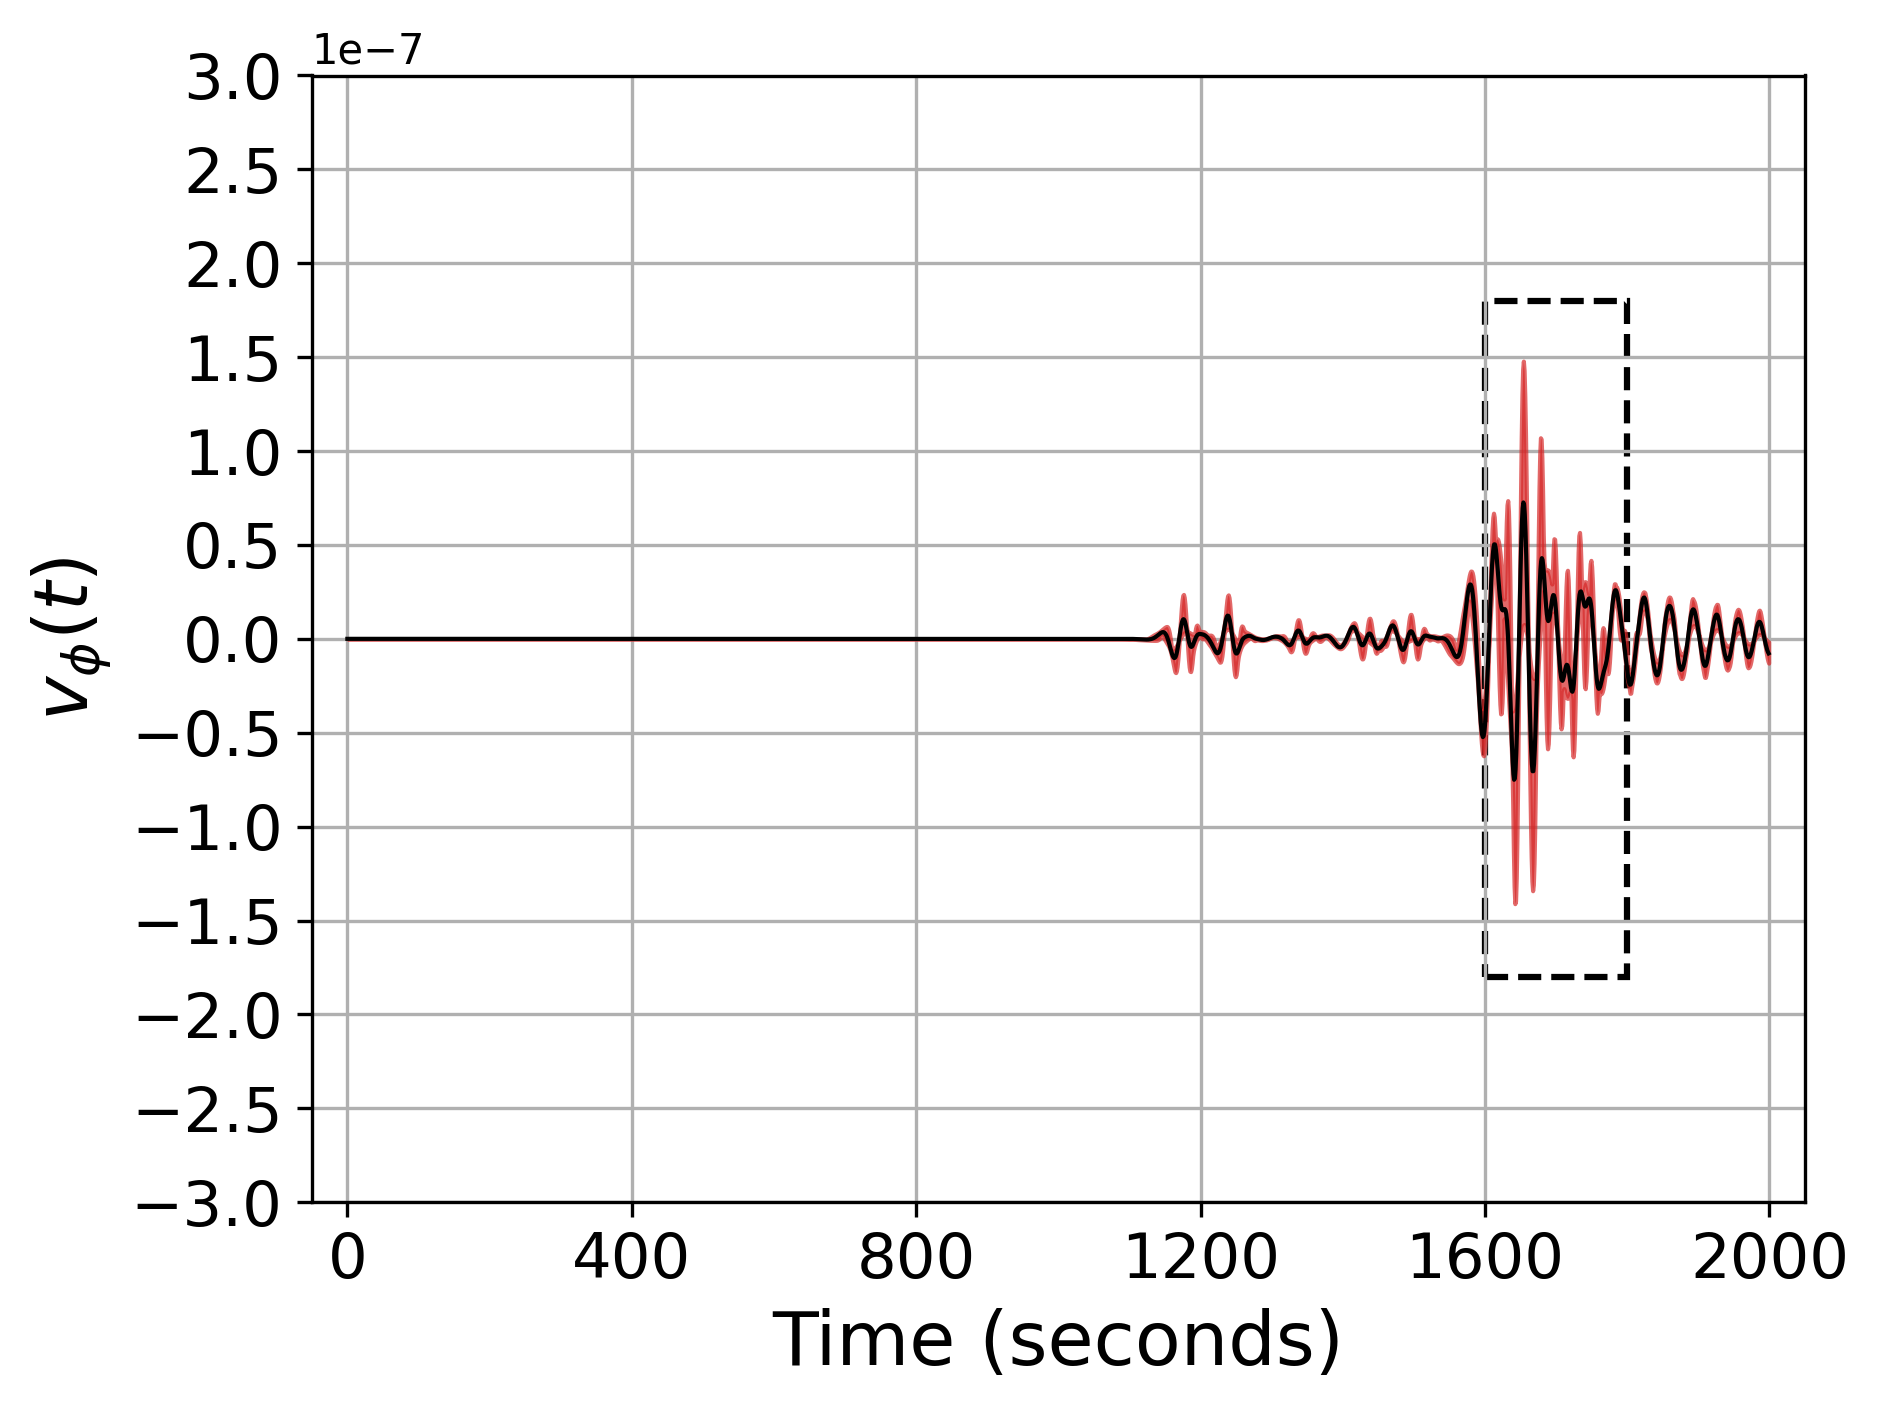
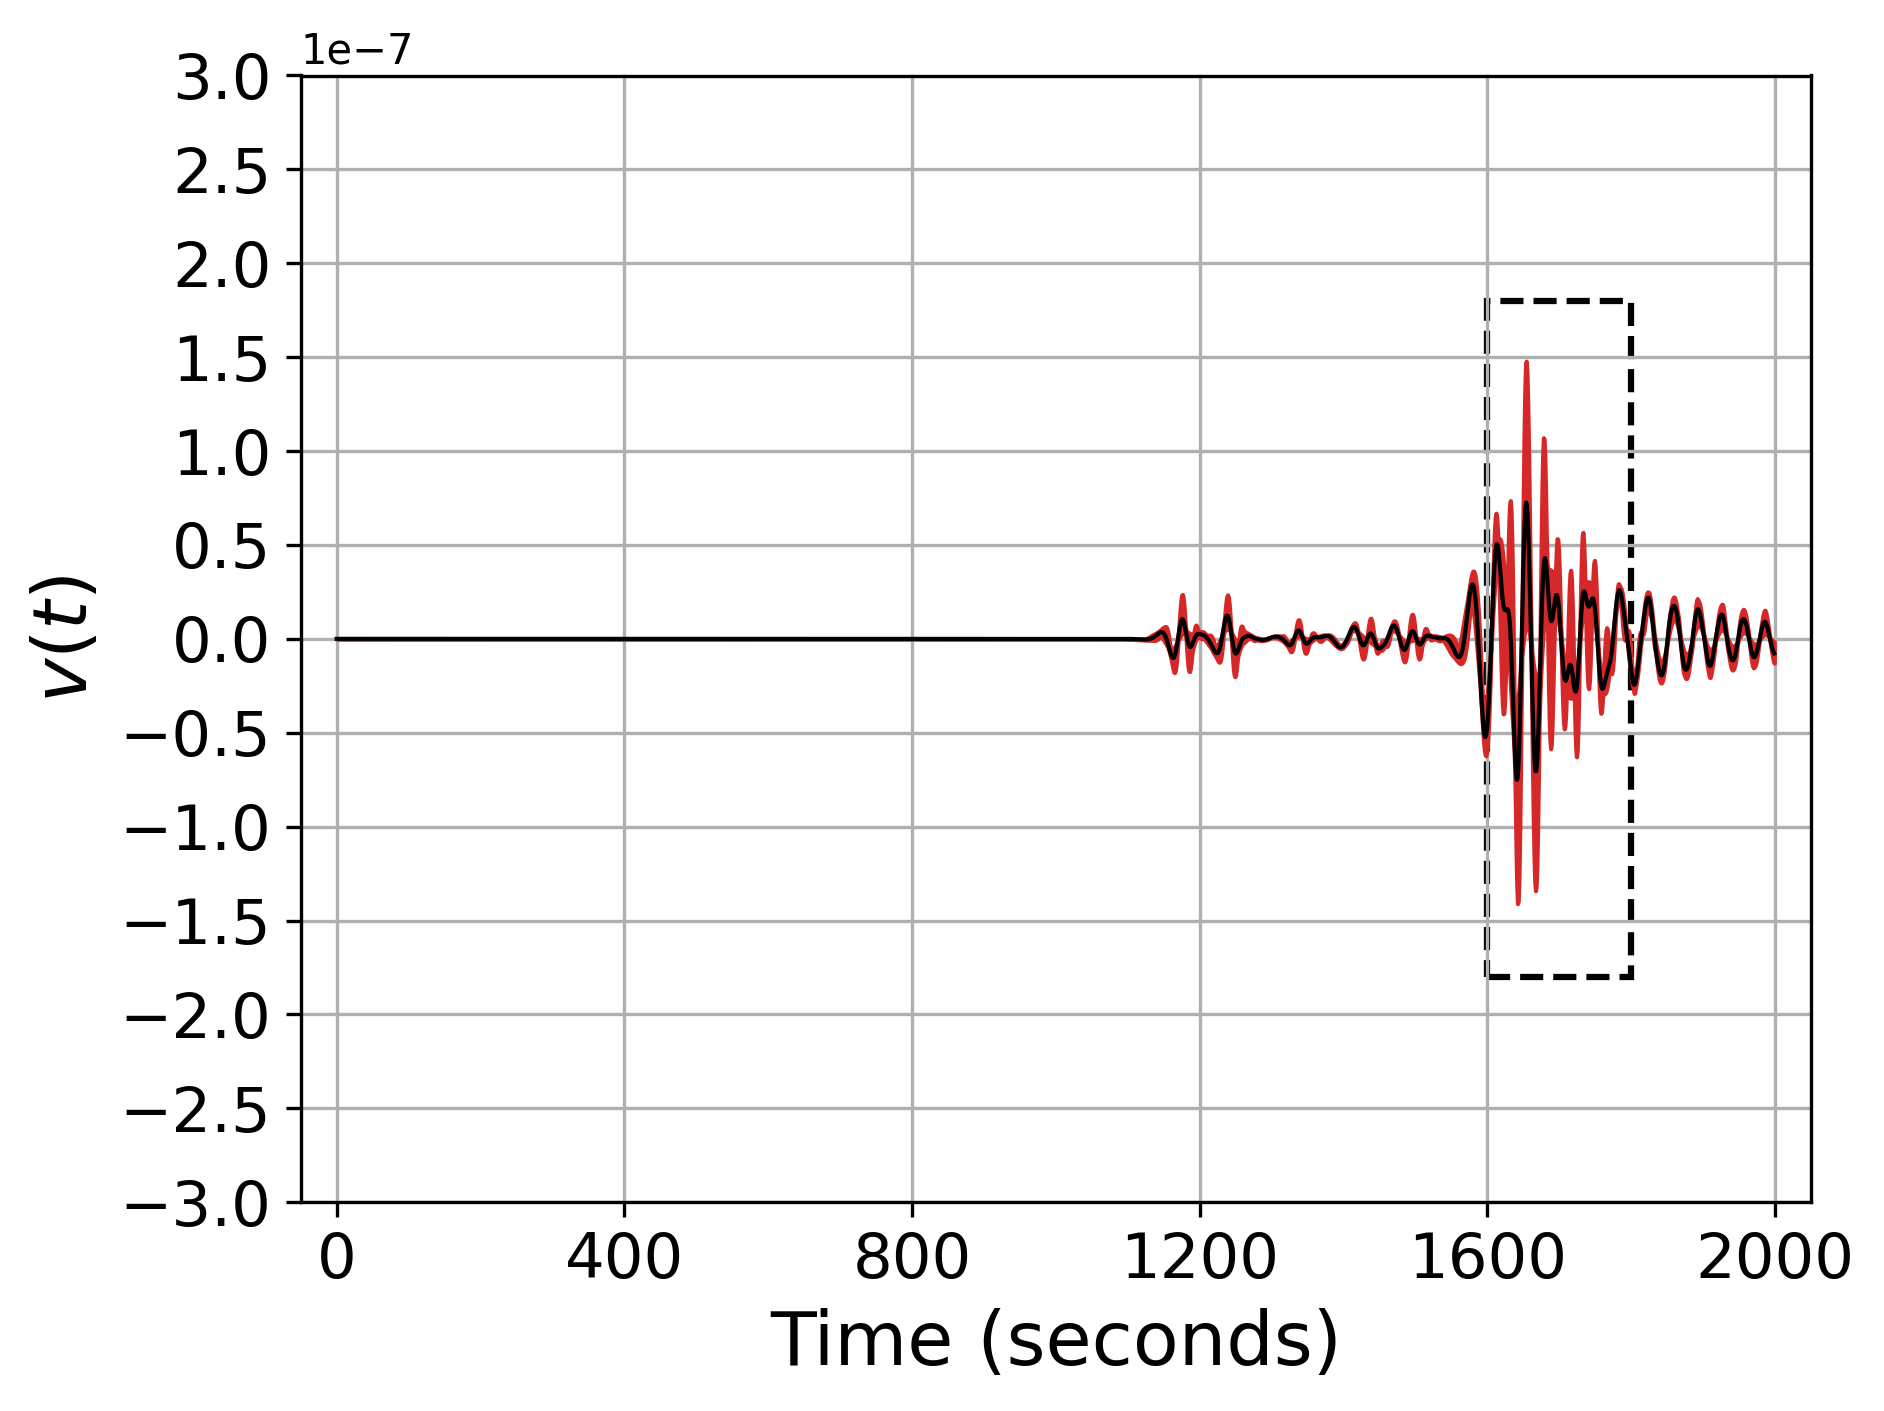
update scripts

diff --git a/fom_scaling/fom_speedup_ploy.py b/fom_scaling/fom_speedup_ploy.py
@@ -135,11 +135,12 @@ def do2dPlot(dataMatrix, thCases, fCases, numDofs, nThr, N):
   mask[dataMatrix==0] = True
   cm = plt.cm.get_cmap('PuBuGn')#.reversed()
 
+  thisLabel = r'$s($'+str(numDofs)+r'$, n, M)$'
   ax = sea.heatmap(dataMatrix, annot=True, center=8,
                    annot_kws={"size": 13},
                    fmt="3.2f", linecolor='white', vmin=0, vmax=27,
                    linewidths=.25, mask=mask, cmap=cm,
-                   cbar_kws={'label': 's(f,n)'})
+                   cbar_kws={'label': thisLabel})
 
   ax.figure.axes[-1].yaxis.label.set_size(15)
 
@@ -148,26 +149,25 @@ def do2dPlot(dataMatrix, thCases, fCases, numDofs, nThr, N):
 
   ax.set_xticks(np.arange(1, nC+1, 1)-0.5)
   xlab = [str(int(p)) for p in fCases]
-  ax.set_xticklabels(xlab, fontsize=14)
-  ax.set_xlabel('Size of f', fontsize=16)
+  ax.set_xticklabels(xlab, fontsize=12)
+  ax.set_xlabel(r'$M$', fontsize=16)
 
   ax.set_yticks(np.arange(1, nR+1, 1)-0.5)
   #ylab = [str(int(p)) for p in thCases[::-1]]
   ylab = [str(int(p)) for p in thCases]
-  ax.set_yticklabels(ylab, fontsize=14)
-  ax.set_ylabel('Number of threads', fontsize=16)
-  #plt.rcParams['axes.linewidth'] = 1
+  ax.set_yticklabels(ylab, fontsize=12)
+  ax.set_ylabel(r'$n$ (Number of threads)', fontsize=16)
 
-  for i in range(dataMatrix.shape[0]):
-    for j in range(dataMatrix.shape[1]):
-      if (j>=1):
-        if dataMatrix[i][j-1] <= 1. and dataMatrix[i][j]>1.:
-          ax.add_patch(Rectangle((j,i), 0., 1,
-                                 edgecolor='black', fill=False, lw=1.5, zorder=10))
-      if (i<nR-1):
-        if dataMatrix[i+1][j] <= 1. and dataMatrix[i][j]>1.:
-          ax.add_patch(Rectangle((j,i+1), 1, 0,
-                                 edgecolor='black', fill=False, lw=1.5, zorder=10))
+  # for i in range(dataMatrix.shape[0]):
+  #   for j in range(dataMatrix.shape[1]):
+  #     if (j>=1):
+  #       if dataMatrix[i][j-1] <= 1. and dataMatrix[i][j]>1.:
+  #         ax.add_patch(Rectangle((j,i), 0., 1,
+  #                                edgecolor='black', fill=False, lw=1.5, zorder=10))
+  #     if (i<nR-1):
+  #       if dataMatrix[i+1][j] <= 1. and dataMatrix[i][j]>1.:
+  #         ax.add_patch(Rectangle((j,i+1), 1, 0,
+  #                                edgecolor='black', fill=False, lw=1.5, zorder=10))
 
   plt.tight_layout()
   fileName = 'fom_speedup_numDofs_'+str(numDofs)+'_nth_'+str(nThr)+'_N_'+str(N)+'.png'

diff --git a/rom_uq_forcing/plotSeismoUQ.py b/rom_uq_forcing/plotSeismoUQ.py
@@ -182,7 +182,7 @@ def tsplot(ax, x, y, pct, color='r',
   #colormap = plt.cm.get_cmap('BuPu')
   #print(colormap(0))
   #mycolors = ['#264653', '#2a9d8f', ]
-  mycolors = ['#d62828', '#f77f00', '#e9c46a']
+  mycolors = ['#d62828', '#e9c46a']
 
   for i in range(half):
     ax.fill_between(x, P[i,:], P[-(i+1),:],
@@ -210,17 +210,17 @@ def plotFullSeismogram(idi, data, pct, filename):
   plt.grid('on')
   tsplot(ax, t, data, [pct[0], pct[-1]],
          plot_median=False, plot_mean=True, line_color='black',
-         alpha=0.7, zorder=5)
+         alpha=1, zorder=5)
 
   ax.set_xlim([-50, 2050])
   ax.set_ylim([-3e-7, 3e-7])
 
   ax.set_yticks(np.linspace(-3e-7, 3e-7, 13))
   ax.set_xticks(np.linspace(0, 2000, 6))
-  # if idi==0: ylab = r'$v_{\phi}(r_{earth}, 0.174533, t)$'
-  # if idi==1: ylab = r'$v_{\phi}(r_{earth}, \pi/6, t)$'
-  # if idi==2: ylab = r'$v_{\phi}(r_{earth}, 2\pi/6, t)$'
-  ylab = r'$v_{\phi}(t)$'
+  # if idi==0: ylab = r'$v(r_{earth}, 0.174533, t)$'
+  # if idi==1: ylab = r'$v(r_{earth}, \pi/6, t)$'
+  # if idi==2: ylab = r'$v(r_{earth}, 2\pi/6, t)$'
+  ylab = r'$v(t)$'
   ax.set_ylabel(ylab, fontsize=18)
   ax.set_xlabel(r'Time (seconds)', fontsize=18)
   ax.tick_params(axis='y', which='major', labelsize=15)
@@ -261,7 +261,7 @@ def plotZoom(idi, data, dataFom, pct, filename):
   plt.grid('on')
   tsplot(ax, t, data, pct,
          plot_median=False, plot_mean=True, line_color='black',
-         alpha=0.7, zorder=5)
+         alpha=1, zorder=5)
 
   ax.plot(t, fom_mean, 'o', markersize=2, color='k',
               label='mean (FOM)', markerfacecolor='none', zorder=6)
@@ -286,7 +286,7 @@ def plotZoom(idi, data, dataFom, pct, filename):
     ax.set_xlim([1600, 1800])
     ax.set_ylim([-1.8e-7, 2e-7])
 
-  ax.set_ylabel(r'$v_{\phi}(t)$', fontsize=18)
+  ax.set_ylabel(r'$v(t)$', fontsize=18)
   ax.set_xlabel(r'Time (seconds)', fontsize=18)
   ax.tick_params(axis='y', which='major', labelsize=15)
   ax.tick_params(axis='y', which='minor', labelsize=15)
@@ -307,7 +307,7 @@ ptId = [0,1,2]
 romWorkDir = '.'
 fomWorkDir = '.'
 
-percentiles = [5, 10, 25, 75, 90, 95]
+percentiles = [5, 25, 75, 95]
 
 [fomK1, t] = getFOMData(ptId, fomWorkDir)
 [romK1]    = getROMData(ptId, romSizeVp, romWorkDir)

diff --git a/fom_scaling/fom_scaling_plot_dof_f_threads.py b/fom_scaling/fom_scaling_plot_dof_f_threads.py
@@ -131,11 +131,11 @@ def plotBar(dataDic, meshLabels, nThreads, metric, stat):
     ax.tick_params(axis='y', which='major', labelsize=15)
     ax.tick_params(axis='y', which='minor', labelsize=13)
 
-    # plot peak theoretical mem BW
-    ax.plot([min(pos)-0.2, max(pos)+width*70],
-            [peakMemBW, peakMemBW], '--k', linewidth=1.2, zorder=7)
-    ax.text((min(pos)+width+max(pos)+width*75)*0.45,
-            peakMemBW+12, 'Machine\'s theoretical peak', fontsize=15)
+    # # plot peak theoretical mem BW
+    # ax.plot([min(pos)-0.2, max(pos)+width*70],
+    #         [peakMemBW, peakMemBW], '--k', linewidth=1.2, zorder=7)
+    # ax.text((min(pos)+width+max(pos)+width*75)*0.45,
+    #         peakMemBW+12, 'Machine\'s theoretical peak', fontsize=15)
 
   elif metric=='cpu':
     ax.set_yscale('log')
